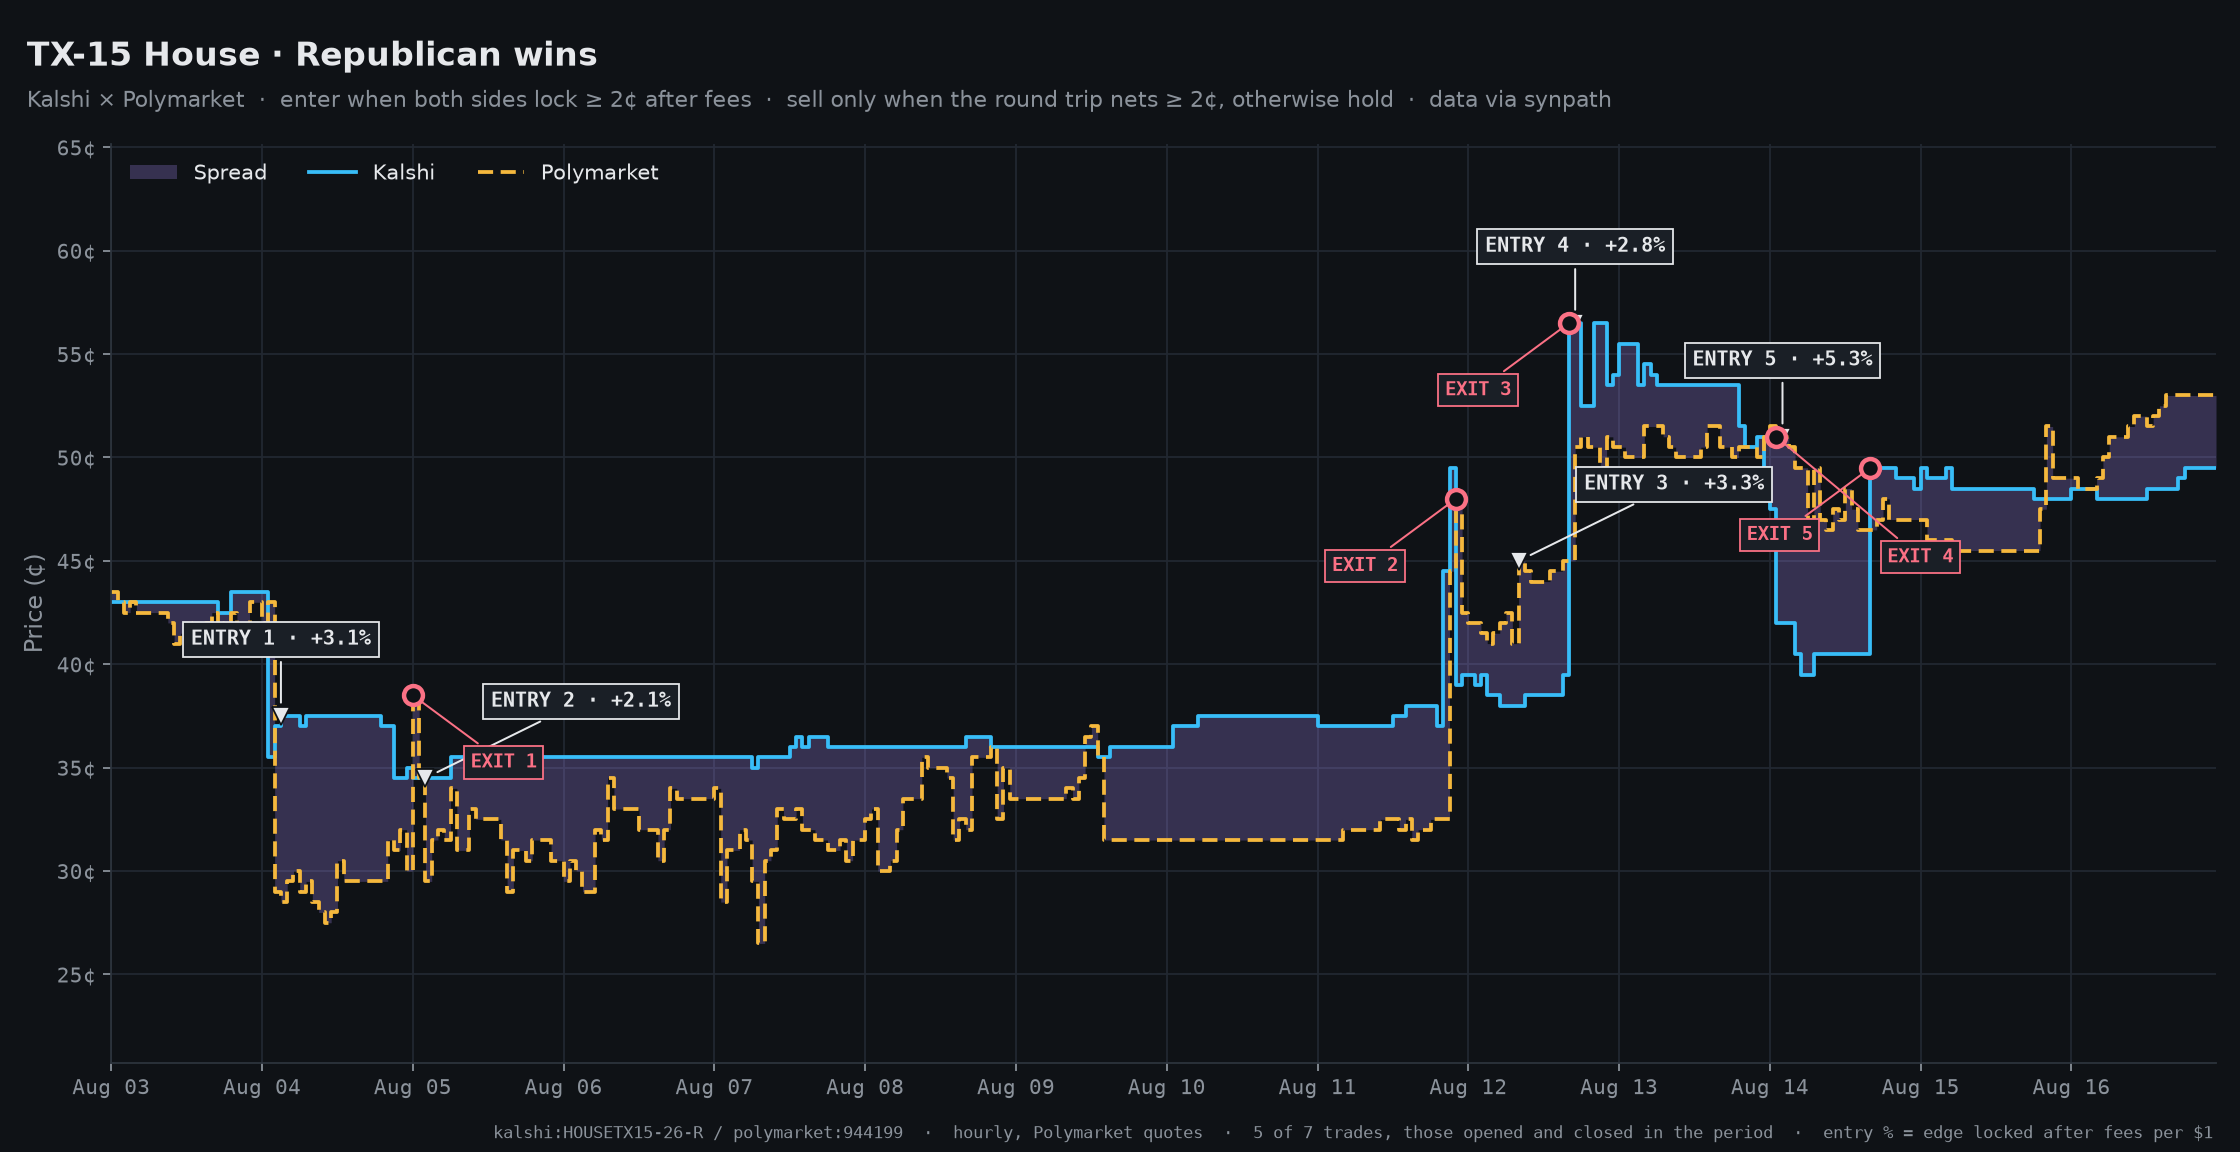
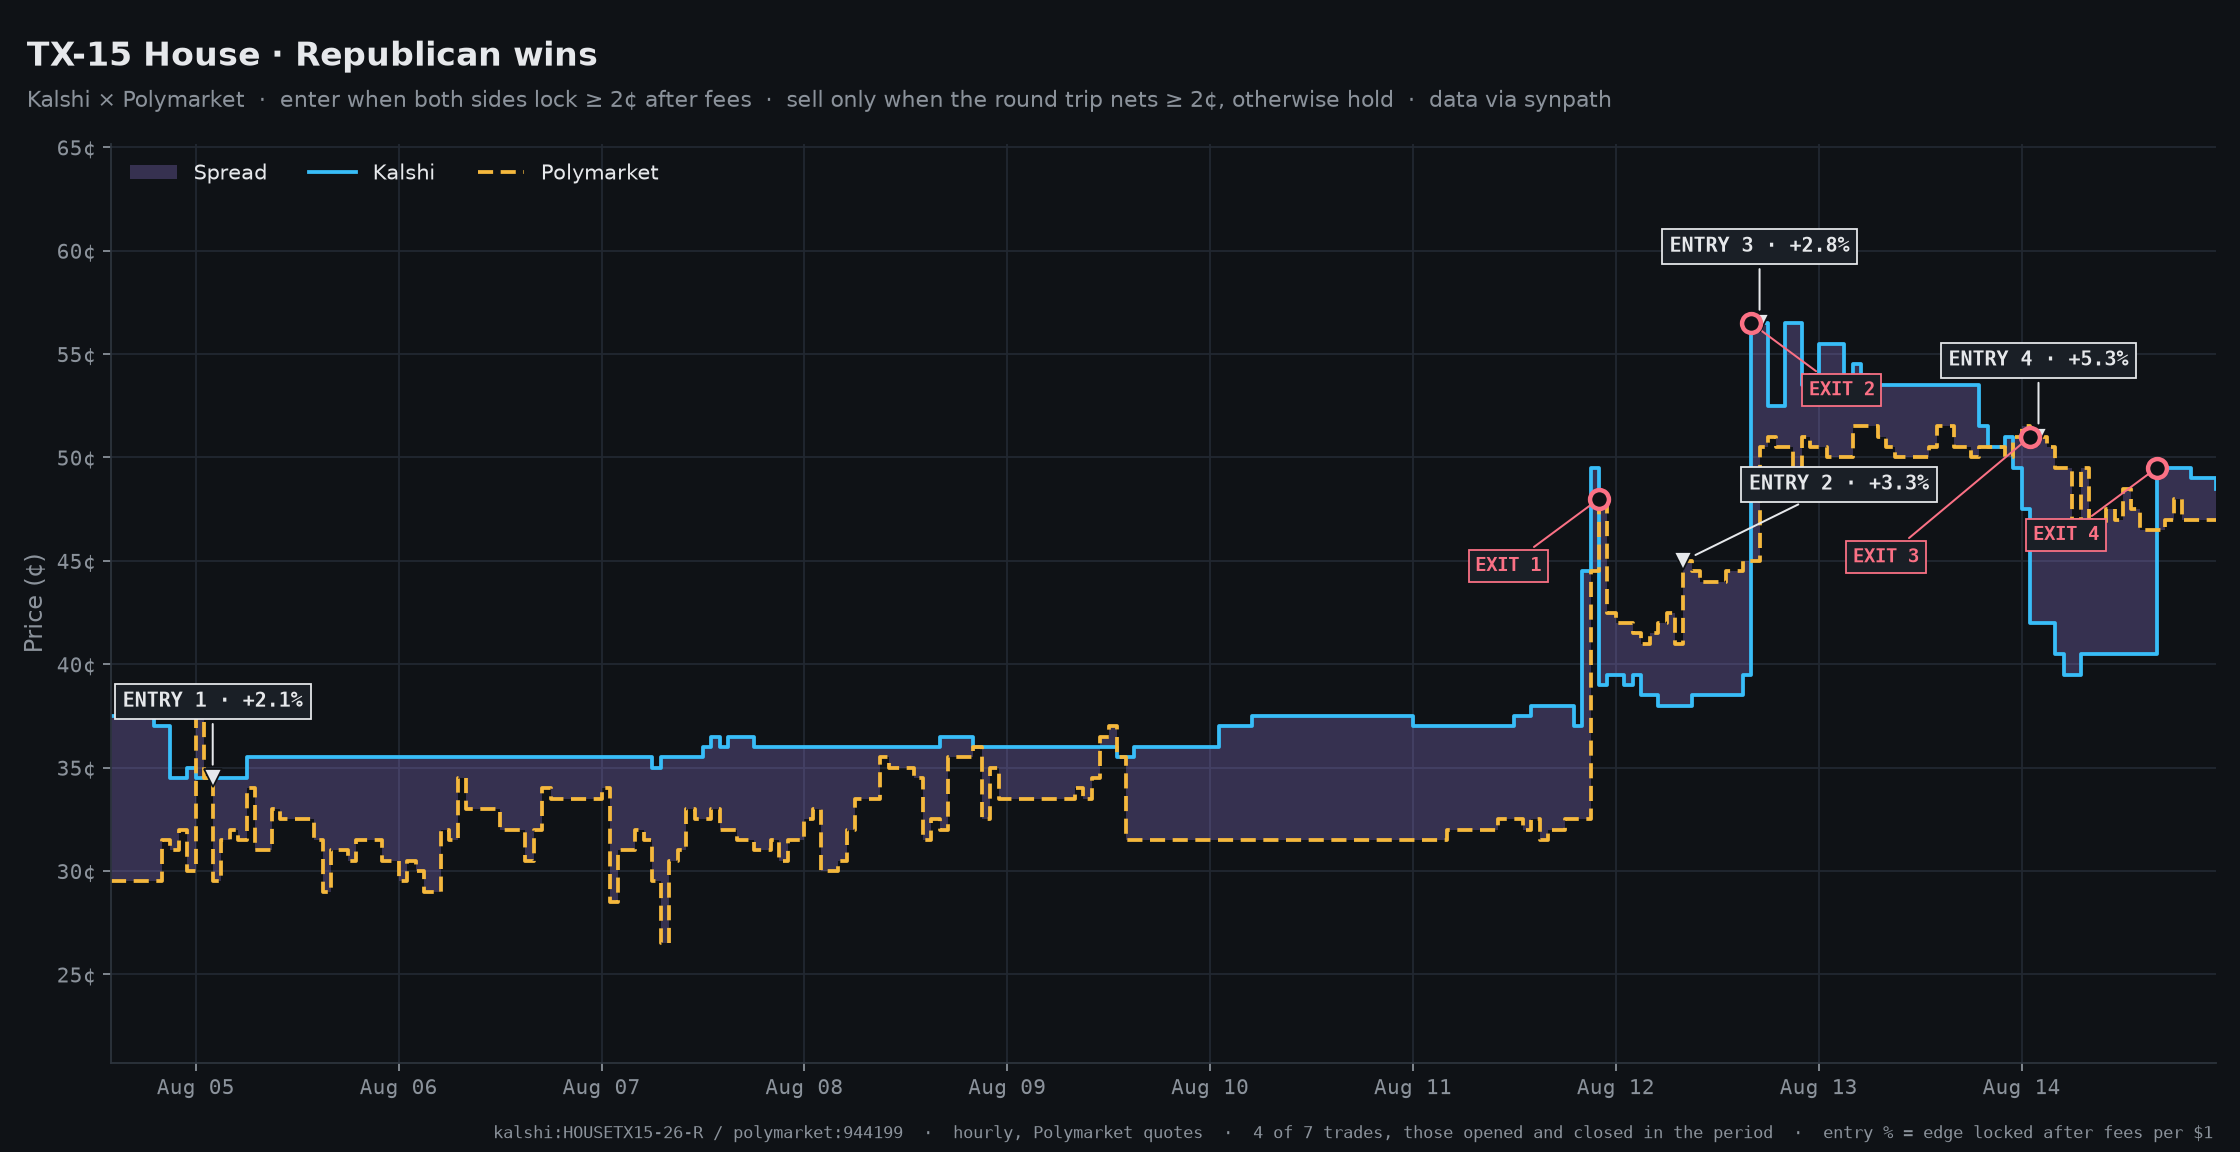
TX-15 House charts: Aug 5 - 14

diff --git a/backtest/charts.py b/backtest/charts.py
@@ -1,7 +1,7 @@
 """Charts of a backtest (out/backtest.json from backtest/backtest.py).
 
     python -m backtest.charts                                            # every market, whole backtest
-    python -m backtest.charts --market kalshi:HOUSETX15-26-R --start 2026-08-03 --end 2026-08-16
+    python -m backtest.charts --market kalshi:HOUSETX15-26-R --start 2026-08-05 --end 2026-08-14
     python -m backtest.charts --best                                     # each market's best 4-6 trades
     python -m backtest.charts --market kalshi:KXGOVAK-26-JKRE --start 2026-08-08 --end 2026-08-29 --by-close
 

diff --git a/README.md b/README.md
@@ -42,7 +42,7 @@ The bot does not wait months for the question to resolve. The gap between the ve
 
 A pair costs just under $1, so each entry at 1,000 contracts uses about $980, split between the two venues (about $3,000 at most with all three markets open).
 
-### TX-15 House, Aug 3 – 16
+### TX-15 House, Aug 5 – 14
 
 ![TX-15 entries and exits](assets/tx15_entries.png)
 ![TX-15 P&L](assets/tx15_pnl.png)
@@ -106,7 +106,7 @@ Backtest and charts:
 
 ```bash
 python -m backtest.backtest --days 60
-python -m backtest.charts --market kalshi:HOUSETX15-26-R --start 2026-08-03 --end 2026-08-16
+python -m backtest.charts --market kalshi:HOUSETX15-26-R --start 2026-08-05 --end 2026-08-14
 python -m backtest.charts --market kalshi:KXGOVAK-26-JKRE --start 2026-08-08 --end 2026-08-29 --by-close
 ```
 
